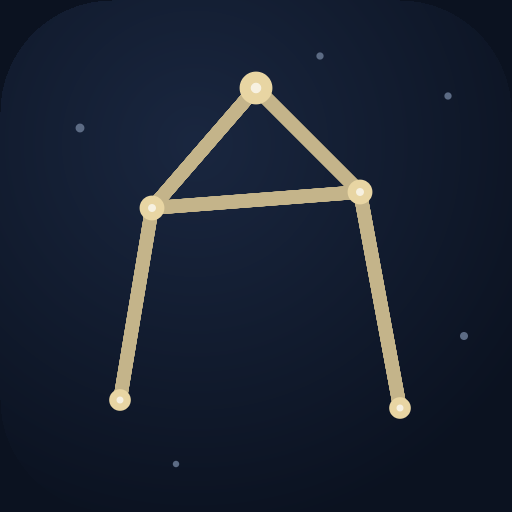
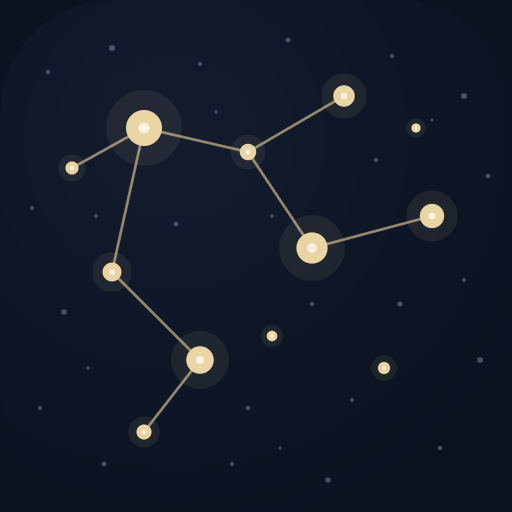
Redraw the constellation as a night sky
The original five-star asterism made the A too strong, so the mark read as
a letter before it read as Astriena's "of the stars" identity. Replace it
with an irregular mixed-magnitude field and faint broken chart lines so sky
and constellation are the first impression at avatar and favicon sizes.

diff --git a/docs/assets/render_png.py b/docs/assets/render_png.py
@@ -9,15 +9,42 @@ import zlib
 from pathlib import Path
 
 BG = (0x0B, 0x12, 0x20)
-SURFACE = (0x1A, 0x27, 0x40)
+SURFACE = (0x14, 0x1C, 0x2E)
 STAR = (0xE8, 0xD5, 0xA3)
 CORE = (0xF7, 0xF1, 0xE1)
 LINE = (0xC4, 0xB4, 0x8A)
 DIM = (0x5C, 0x6B, 0x84)
 
-STARS = [(32, 11, 2.05), (19, 26, 1.55), (45, 24, 1.55), (15, 50, 1.35), (50, 51, 1.35)]
-LINES = [((32, 11), (19, 26)), ((19, 26), (15, 50)), ((32, 11), (45, 24)), ((45, 24), (50, 51)), ((19, 26), (45, 24))]
-FIELD = [(10, 16, 0.55), (56, 12, 0.45), (58, 42, 0.5), (22, 58, 0.4), (40, 7, 0.45)]
+# Keep these coordinates in sync with astriena-mark.svg's 64-unit viewBox.
+STARS = [
+    (18, 16, 2.25), (39, 31, 1.95), (25, 45, 1.72), (54, 27, 1.52),
+    (43, 12, 1.34), (14, 34, 1.18), (31, 19, 1.03), (18, 54, .94),
+    (9, 21, .82), (48, 46, .76), (34, 42, .66), (52, 16, .58),
+]
+LINES = [
+    ((9, 21), (18, 16)), ((18, 16), (31, 19)), ((31, 19), (43, 12)),
+    ((31, 19), (39, 31)), ((39, 31), (54, 27)),
+    ((18, 16), (14, 34)), ((14, 34), (25, 45)), ((25, 45), (18, 54)),
+]
+FIELD = [
+    (6, 9, .28), (14, 6, .38), (25, 8, .24), (36, 5, .31),
+    (49, 7, .25), (58, 12, .36), (4, 26, .23), (8, 39, .34),
+    (5, 51, .25), (13, 58, .30), (29, 58, .24), (41, 60, .33),
+    (55, 56, .27), (60, 45, .35), (58, 35, .22), (61, 22, .29),
+    (12, 27, .22), (22, 28, .30), (34, 27, .21), (47, 20, .24),
+    (50, 38, .32), (44, 50, .22), (31, 51, .27), (11, 46, .20),
+    (27, 14, .19), (39, 38, .24), (54, 15, .18), (35, 56, .18),
+]
+
+STARS_16 = [
+    (4.6, 4, 1.18), (9.8, 7.8, 1.02), (6.2, 11.3, .92),
+    (13.4, 6.8, .78), (10.8, 3, .67), (3.6, 8.5, .62),
+    (12, 12.5, .48), (2.6, 5.2, .45),
+]
+LINES_16 = [
+    ((2.6, 5.2), (4.6, 4)), ((4.6, 4), (7.8, 4.8)),
+    ((9.8, 7.8), (13.4, 6.8)), ((3.6, 8.5), (6.2, 11.3)),
+]
 
 
 def lerp(a: int, b: int, t: float) -> int:
@@ -87,16 +114,21 @@ class Canvas:
                 if cov:
                     self.set(x, y, color, a * cov)
 
-    def line(self, x0: float, y0: float, x1: float, y1: float, width: float, color: tuple[int, int, int]) -> None:
+    def line(
+        self, x0: float, y0: float, x1: float, y1: float, width: float,
+        color: tuple[int, int, int], alpha: float = .22,
+    ) -> None:
         steps = max(2, int(math.hypot(x1 - x0, y1 - y0) * 2))
-        r = max(0.6, width / 2.0)
+        r = max(.35, width / 2.0)
         for i in range(steps + 1):
             t = i / steps
-            self.circle(x0 + (x1 - x0) * t, y0 + (y1 - y0) * t, r, color, 1.0)
+            self.circle(x0 + (x1 - x0) * t, y0 + (y1 - y0) * t, r, color, alpha)
 
     def star(self, cx: float, cy: float, r: float) -> None:
+        if r >= 1.3:
+            self.circle(cx, cy, r * 2.1, STAR, .08)
         self.circle(cx, cy, r, STAR, 1.0)
-        self.circle(cx, cy, max(0.6, r * 0.32), CORE, 1.0)
+        self.circle(cx, cy, max(.34, r * .30), CORE, 1.0)
 
 
 def png(canvas: Canvas, path: Path) -> None:
@@ -115,21 +147,42 @@ def png(canvas: Canvas, path: Path) -> None:
     )
 
 
-def draw_asterism(c: Canvas, ox: float, oy: float, scale: float, line_w: float) -> None:
+def draw_asterism(
+    c: Canvas, ox: float, oy: float, scale: float, line_w: float,
+    line_alpha: float = .22,
+) -> None:
     for (x0, y0), (x1, y1) in LINES:
-        c.line(ox + x0 * scale, oy + y0 * scale, ox + x1 * scale, oy + y1 * scale, line_w, LINE)
+        c.line(
+            ox + x0 * scale, oy + y0 * scale,
+            ox + x1 * scale, oy + y1 * scale,
+            line_w, LINE, line_alpha,
+        )
     for x, y, r in STARS:
         c.star(ox + x * scale, oy + y * scale, r * scale)
 
 
 def render_mark(size: int, path: Path) -> None:
     c = Canvas(size, size, BG)
-    c.fill_radial(size * 0.38, size * 0.28, size * 0.78, SURFACE, BG)
+    c.fill_radial(size * .34, size * .27, size * .82, SURFACE, BG)
     c.rounded_rect_mask(size * 14 / 64)
     scale = size / 64.0
     for x, y, r in FIELD:
-        c.circle(x * scale, y * scale, max(0.8, r * scale), DIM, 1.0)
-    draw_asterism(c, 0, 0, scale, 1.7 * scale)
+        if size <= 64 and r < .24:
+            continue
+        c.circle(x * scale, y * scale, max(.55, r * scale), DIM, .72)
+    draw_asterism(c, 0, 0, scale, .36 * scale)
+    png(c, path)
+
+
+def render_mark_16(path: Path) -> None:
+    c = Canvas(16, 16, BG)
+    c.rounded_rect_mask(3.5)
+    for (x0, y0), (x1, y1) in LINES_16:
+        c.line(x0, y0, x1, y1, .58, LINE, .38)
+    for x, y, r in STARS_16:
+        c.circle(x, y, r, STAR)
+    c.circle(4.6, 4, .35, CORE)
+    c.circle(9.8, 7.8, .30, CORE)
     png(c, path)
 
 
@@ -138,15 +191,17 @@ def render_social(path: Path) -> None:
     c = Canvas(w, h, BG)
     c.fill_radial(w * 0.32, h * 0.40, w * 0.80, SURFACE, BG)
     field = [
-        (80, 70, 1.2), (160, 140, 0.9), (240, 48, 1.1), (420, 90, 0.8),
-        (980, 70, 1.2), (1100, 120, 0.9), (1180, 200, 1.1), (1040, 520, 1.0),
-        (200, 540, 1.1), (60, 400, 0.8), (720, 80, 0.7), (860, 560, 0.9),
-        (1240, 400, 0.8), (500, 580, 0.7),
+        (72, 64, 1.1), (148, 128, .8), (228, 42, 1), (400, 86, .7),
+        (968, 62, 1.1), (1092, 118, .85), (1176, 196, 1), (1032, 516, .9),
+        (188, 536, 1), (54, 392, .75), (708, 74, .65), (852, 552, .85),
+        (1232, 388, .75), (492, 576, .65), (620, 40, .7), (780, 520, .8),
+        (1140, 48, .6), (320, 600, .7), (40, 220, .65), (1260, 280, .7),
+        (880, 96, .55), (560, 600, .6), (980, 300, .7), (160, 300, .5),
     ]
     for x, y, r in field:
         c.circle(x, y, r, DIM, 1.0)
     scale = 7.2
-    draw_asterism(c, 640 - 32 * scale, 320 - 31 * scale, scale, 1.7 * scale)
+    draw_asterism(c, 640 - 32 * scale, 320 - 31 * scale, scale, .36 * scale)
     png(c, path)
 
 
@@ -154,6 +209,7 @@ def main() -> None:
     here = Path(__file__).resolve().parent
     render_mark(512, here / "astriena-icon-512.png")
     render_mark(64, here / "astriena-icon-64.png")
+    render_mark_16(here / "astriena-icon-16.png")
     render_social(here / "astriena-social.png")
 
 

diff --git a/README.md b/README.md
@@ -55,8 +55,9 @@ sampling engine ([`internal/sampling`](internal/sampling)) and ClickHouse writer
 
 ## Visual language
 
-The mark is an original five-star asterism (a slightly irregular A of linked
-stars), not a catalogued constellation. Night-sky tokens used across the SVG
+The mark is an original night-sky field: mixed-magnitude stars with faint,
+broken chart lines. It reads as sky and constellation before any letterform
+and is not a catalogued constellation. Night-sky tokens used across the SVG
 assets in [`docs/assets/`](docs/assets/):
 
 | Token | Hex | Role |
@@ -73,8 +74,9 @@ assets in [`docs/assets/`](docs/assets/):
 Source of truth is the SVG. `astriena-mark.svg` is the app/avatar mark;
 `astriena-mark-16.svg` / `favicon.svg` are the 16px silhouette; `astriena-social.svg`
 is the typeset 1280×640 preview. Matching PNGs (`astriena-icon-512.png`,
-`astriena-social.png`) are for GitHub, which wants raster uploads. Org/repo
-avatar and Settings → Social preview still need a maintainer upload.
+`astriena-icon-64.png`, `astriena-icon-16.png`, `astriena-social.png`) are for
+GitHub, which wants raster uploads. Org/repo avatar and Settings → Social
+preview still need a maintainer upload.
 
 ## License
 

diff --git a/CHANGELOG.md b/CHANGELOG.md
@@ -8,6 +8,11 @@ pinned released versions.
 
 ## [Unreleased]
 
+### Changed
+- Redrew the constellation mark as an irregular, mixed-magnitude night sky with
+  faint broken chart lines; the original five-star A was too dominant
+  (follow-up to #9).
+
 ### Fixed
 - Keep-worthy traces and accepted ClickHouse rows survive sink errors and
   cancelled Collector shutdown: sampled traces stay held until forward
@@ -33,7 +38,7 @@ pinned released versions.
   (`TestLateErrorSpanSamplesBufferedTrace`, `TestBufferIndexAndOrderStayConsistent`).
 
 ### Added
-- Constellation branding: original five-star asterism mark and night-sky token
+- Constellation branding: original asterism mark and night-sky token
   set in `docs/assets/`, wired into the README and docs headers (closes #9).
 - Project scaffolding: custom OpenTelemetry Collector distribution shape.
 - Pure, framework-free core: `internal/sampling` (tail-sampling engine with
